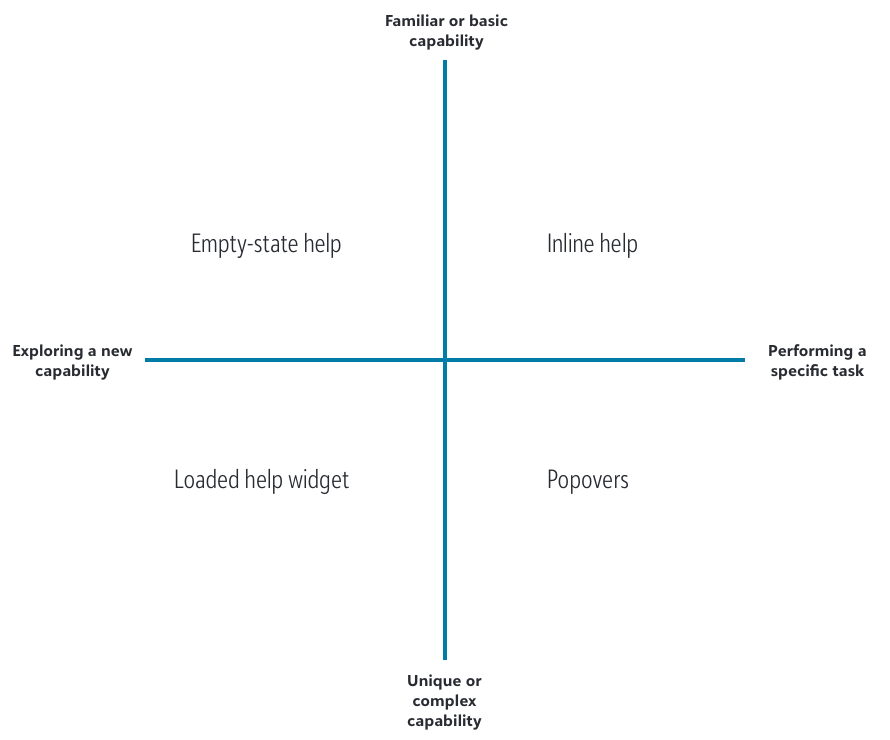
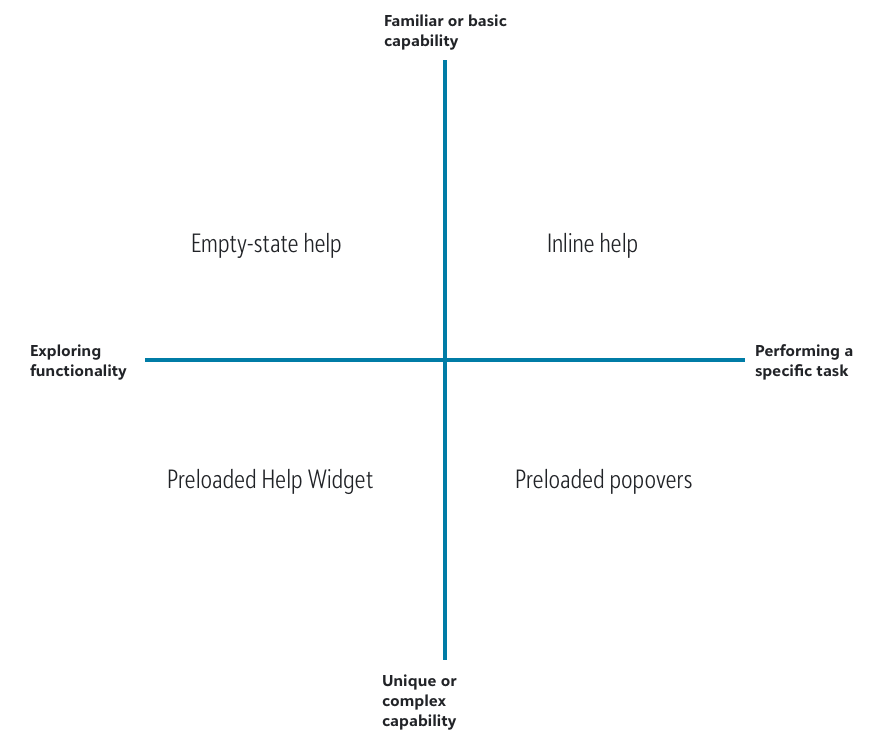
Update UA guidelines to address feedback (#370)
* Update UA guidlines to address feedback

* Update images

diff --git a/src/app/design/guidelines/user-assistance/index.html b/src/app/design/guidelines/user-assistance/index.html
@@ -5,7 +5,7 @@
 
   <stache-page-summary>
     <p>
-      When users access functionality for the first time, they may require guidance. To determine how much guidance to provide and how to present it, you must account for the complexity of the task, the complexity of the user interface, and the expected knowledge of users. User assistance design patterns provide guidance on how to present help content in SKY UX SPAs.
+      When users perform tasks and explore functionality, they may require guidance. To determine how much guidance to provide, you must account for the complexity of the task, the complexity of the user interface, and the expected knowledge of users. User assistance design patterns help determine when and how to present help content to users.
     </p>
   </stache-page-summary>
 
@@ -13,7 +13,7 @@
 		Usage
 	</stache-page-anchor>
 	<p>
-		SKY UX design patterns include four primary techniques to display help content: empty-state help, inline help, preloaded Help Widget, and popovers. To determine the appropriate technique for user assistance, consider the complexity of the task and the expected knowledge of users. The chart below provides a matrix to determine which type of user assistance to use in different scenarios. Do not overuse help content because it can overwhelm or inhibit users. For example, only display the preloaded Help Widget and popovers when user research supports the need for it. When in doubt, err on the side of empty-state help and inline help.
+		SKY UX design patterns include four primary techniques to display help content: empty-state help, inline help, the preloaded Help Widget, and preloaded popovers. To determine the appropriate technique for user assistance, consider the complexity of the task and the expected knowledge of users. The chart below provides a matrix to determine the type of user assistance to provide in different scenarios. Do not overuse help content because it can overwhelm or inhibit users. For example, only preload the Help Widget or popovers when user research supports the need for those techniques. When in doubt, err on the side of empty-state help and inline help.
 	</p>
 	<div class="screenshot screenshot-info" style="margin-top: 20px;">
 		<img src="~/assets/img/guidelines/userassistance/help-chart.png" style="width: 100%;" />
@@ -28,6 +28,9 @@
 			<div class="sky-subsection-heading">Usage</div>
 			<p>
 				Empty-state help provides user assistance when content containers are not populated. The content can include a title, body copy, and buttons to take actions or access additional resources. The help content is not available when content containers are populated.
+			</p>
+			<p>
+				The help content should include a call to action that explains how users can take advantage of the functionality in question.
 			</p>
 			<div class="sky-subsection-heading">Layout</div>
 				<p>
@@ -44,16 +47,6 @@
 	<stache-page-anchor>
 		Inline help
 	</stache-page-anchor>
-
-  <h3 class="sky-subsection-heading">
-  	Page-level and modal-level help
-  </h3>
-  <p>
-    When users perform a complex task, they may require comprehensive documentation for the entire task instead of inline help for individual parts of the task. Users should invoke help at the page or modal level, depending on the context.
-  </p>
-	<p>
-		In Blackbaud products, users can invoke the help service from the omnibar or a <a routerLink="/components/modal">modal</a> header bar. <stache-include fileName="help-widget.html"></stache-include>
-  </p>
 
   <h3 class="sky-subsection-heading">
     Invoked inline help
@@ -76,9 +69,27 @@
 			<div class="sky-emphasized" style="margin-top: 10px;">
 				Layout
 			</div>
-			<p>
-				Place the help button to the right of the label for the element that the help content supports.
-			</p>
+			<sky-repeater expandMode="multiple">
+				<sky-repeater-item [isExpanded]="false">
+					<sky-repeater-item-title>Page-level and modal-level help</sky-repeater-item-title>
+					<sky-repeater-item-content>
+						<p>
+							For complex tasks where users require comprehensive documentation for the entire task, they invoke help at the page or modal level depending on the context.
+						</p>
+						<p>
+							In Blackbaud products, users can invoke the help service from the omnibar or a <a routerLink="/components/modal">modal</a> header bar. <stache-include fileName="help-widget.html"></stache-include>
+						</p>
+						</sky-repeater-item-content>
+				</sky-repeater-item>
+				<sky-repeater-item [isExpanded]="false">
+					<sky-repeater-item-title>Element-level help</sky-repeater-item-title>
+					<sky-repeater-item-content>
+						<p>
+							Place the help button to the right of the label for the element that the help content supports.
+						</p>
+						</sky-repeater-item-content>
+				</sky-repeater-item>
+			</sky-repeater>
 		</stache-column>
 		<stache-column screenSmall="6">
 			<div class="screenshot screenshot-info">
@@ -99,19 +110,19 @@
 				Usage
 			</div>
 			<p>
-				Sometimes a small amount of persistent inline explanatory text can help users understand tasks. It is appropriate to use persistent inline help in cases where:
+				Sometimes a small amount of persistent inline text can help users understand tasks. It is appropriate to use persistent inline help in cases where:
 			</p>
 			<ul>
-				<li>The task is complex and is performed infrequently.</li>
+				<li>The task is complex and  performed infrequently.</li>
 				<li>User actions have far-reaching consequences that are not obvious.</li>
 			</ul>
 			<p>
-				Use the "<a routerLink="/design/styles/typography">sky-deemphasized</a>" class for persistent inline help, and limit the content to one or two sentences to minimize the visual weight of the text.
+				Use <a routerLink="/design/styles/typography">the <stache-code>sky-deemphasized</stache-code> class</a> for persistent inline help, and limit the content to one or two sentences to minimize the visual weight of the text.
 			</p>
 			<div class="sky-emphasized" style="margin-top: 10px;">
 				Layout
 			</div>
-			<p>The placement of persistent inline help text depends on the aspect of a task that the help text supports.</p>
+			<p>The placement of persistent inline help text depends on the part of a task that it supports.</p>
 			<ul>
 				<li>Place help for an overarching task at the top of the form.</li>
 				<li>Place help for a particular section of the form below the section heading.</li>
@@ -126,23 +137,26 @@
 	</stache-row>
 
 	<stache-page-anchor>
-		Popovers
+		Preloaded popovers
 	</stache-page-anchor>
 
 	<stache-row>
 		<stache-column screenSmall="6">
 			<div class="sky-subsection-heading">Usage</div>
 			<p>
-				<a stacheRouterLink="/components/popover">Popovers</a> are a great way to guide users toward a subtle but important element on the page or modal. Users can display popovers when they interact with their trigger elements, and you can also display popovers programmatically when a page loads. It is appropriate to use popover help in cases where:
+				<a stacheRouterLink="/components/popover">Popovers</a> are a great way to display contextual content on pages or modals, and you can programmatically preload popovers to display user assistance when pages or modals load. This technique allows you to guide users toward subtle-but-important elements when tasks include complex or unfamiliar capabilities. It is appropriate to preload popovers with help content when:
 			</p>
 			<ul>
 				<li>
-					An element is important but easily overlooked. For example, use a popover for a new filter option, a view switcher, or an isolated context menu.
+					Elements are important but easily overlooked. For example, use preloaded popovers for new filter options, view switchers, or isolated context menus.
 				</li>
 				<li>
-					An element requires special attention when it loads because user research indicates a problem with discoverability.
+					Elements requires special attention when they load because user research indicates problems with discoverability.
 				</li>
 			</ul>
+			<p>
+				Popovers are also useful <a stacheRouterLink="." fragment="inline-help">for invoked inline help</a>. For tasks with familiar or basic capabilities, they allow users to display contextual content when they interact with trigger elements.
+			</p>
 		</stache-column>
 		<stache-column screenSmall="6">
 			<div class="screenshot screenshot-info">
@@ -162,7 +176,10 @@
 				<stache-include fileName="help-widget.html"></stache-include>
 			</p>
 			<p>
-				Blackbaud developers can preload the Help Widget to display user assistance that is tailored to the first time that users load a page. Use this technique to introduce users to new or novel functionality. Do not use it to walk users through processes.
+				Blackbaud developers can preload the Help Widget to display user assistance when a page loads. This technique allows you to display help content that is tailored to the first time that users load the page. Use this technique to introduce users to new or novel functionality. Do not use it to walk users through processes.
+			</p>
+			<p>
+				The Help Widget is also useful <a stacheRouterLink="." fragment="inline-help">for invoked inline help</a>. For tasks with familiar or basic capabilities, it allows users to display context-sensitive help content.
 			</p>
 		</stache-column>
 		<stache-column screenSmall="6">

diff --git a/src/app/components/popover/index.html b/src/app/components/popover/index.html
@@ -126,7 +126,11 @@
 			<li>The popover content directly relates to the user's current task.</li>
 			<li>The popover content does not require scrolling on a mobile device.</li>
 		</ul>
-		<p>If the content is valuable to see most of the time, use <a routerLink="/design/guidelines/user-assistance" fragment="persistent-inline-help">presistent inline help</a> instead. If the amount of content requires scrolling on a mobile device, use a <a routerLink="/components/flyout">flyout</a> instead.</p>
+    <p>Popovers are not appropriate when:</p>
+    <ul>
+      <li>The content requires scrolling on mobile devices. Use <a routerLink="/components/flyout">flyouts</a> instead.</li>
+      <li>The content is valuable to see most of the time. Use <a routerLink="/design/guidelines/user-assistance" fragment="inline-help">persistent inline help</a> instead. However, you can <a routerLink="/design/guidelines/user-assistance" fragment="inline-help">programmatically preload popovers</a> to display help content that guides users toward subtle-but-important elements when tasks include complex or unfamiliar capabilities.</li>
+    </ul>
 
 		<div class="sky-subsection-heading">Interaction</div>
 		<p>

diff --git a/src/stache/includes/help-widget.html b/src/stache/includes/help-widget.html
@@ -1,1 +1,1 @@
-To display context-sensitive help content in a flyout panel, Blackbaud developers can use <a stacheRouterLink="https://docs.blackbaud.com/bb-help-docs/">the Help Widget</a>. This feature is for internal Blackbaud use only.
+To display context-sensitive help content, Blackbaud developers can use <a stacheRouterLink="https://docs.blackbaud.com/bb-help-docs/">the Help Widget</a>. This feature is for internal Blackbaud use only.
